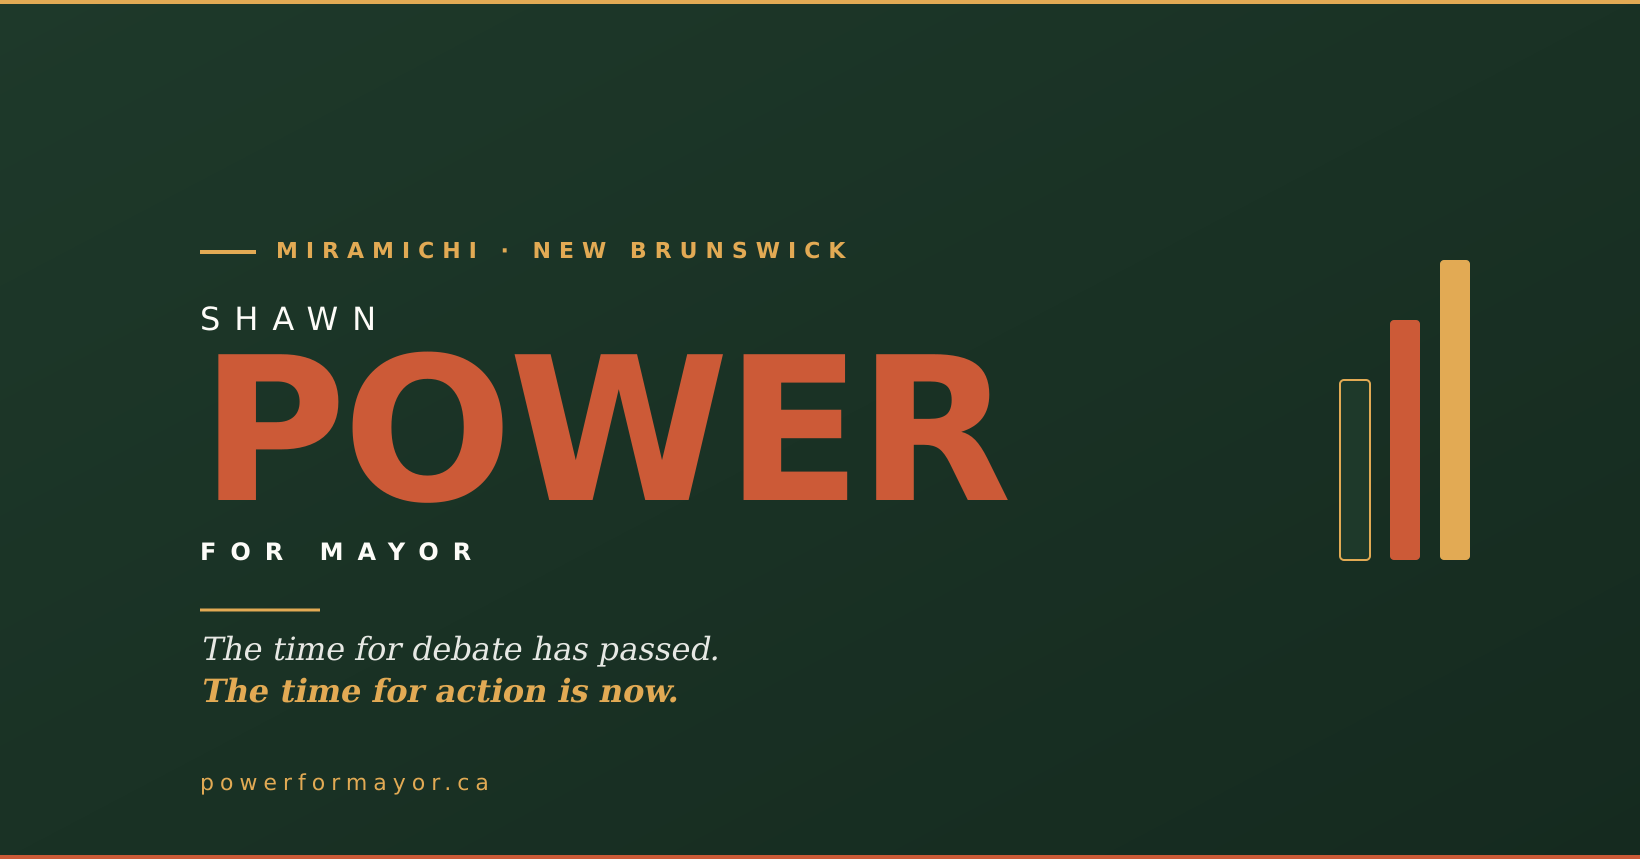
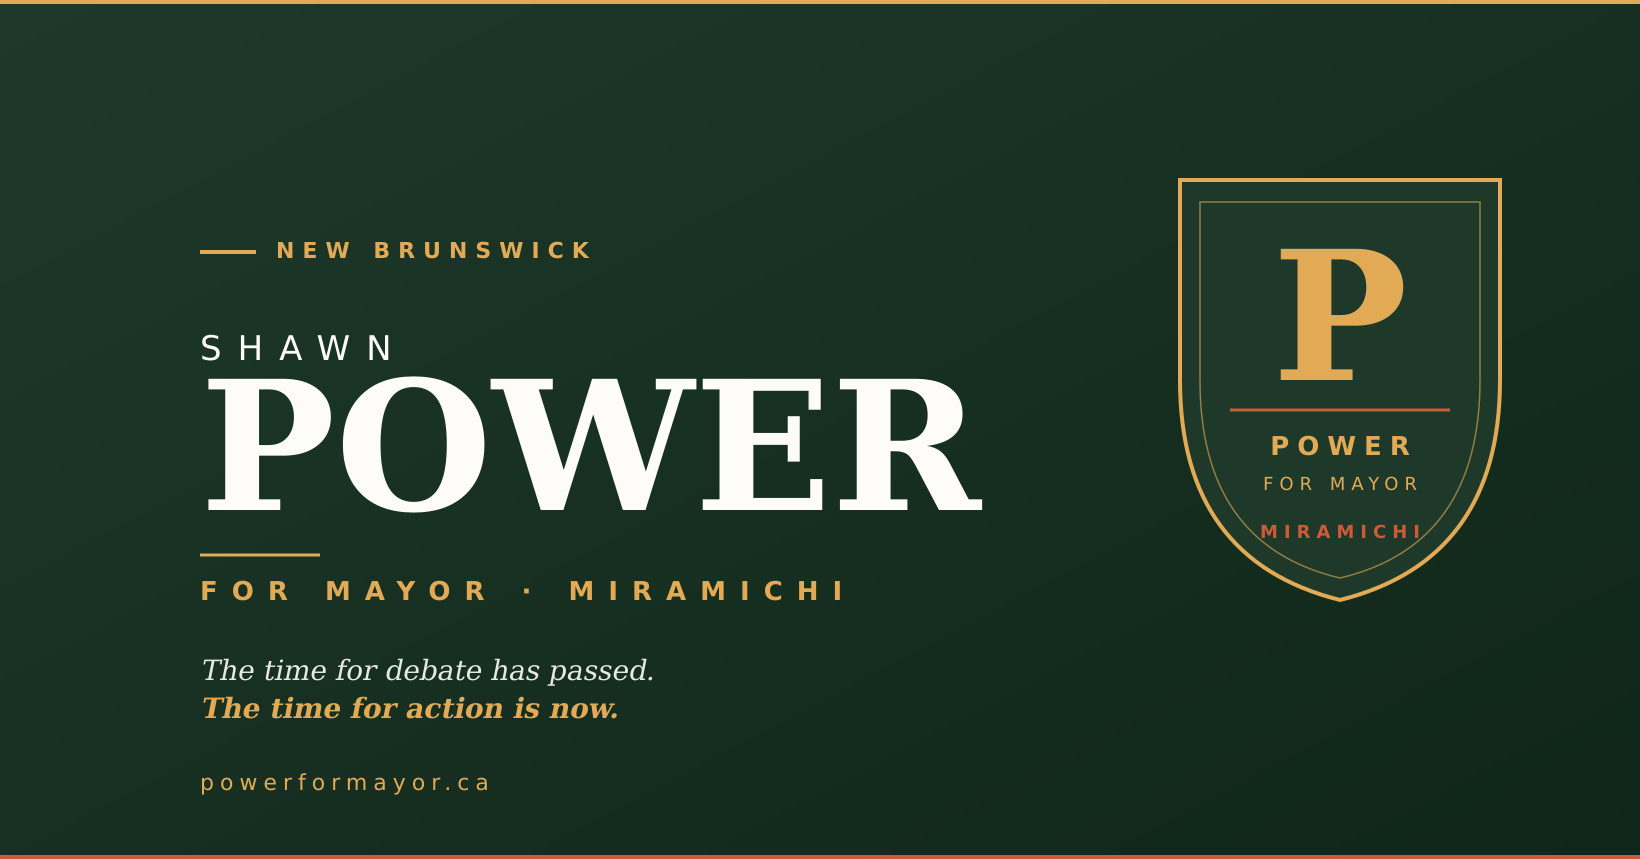
Platform: fix invisible title on dark cards (global h1..h6 rule overrode text-white); FB launch assets regenerated with Option 5 shield/crest per Shawn's pick

diff --git a/frontend/src/components/Platform.js b/frontend/src/components/Platform.js
@@ -64,7 +64,7 @@ export default function Platform() {
             <div className="p-3 rounded-xl bg-white/10 w-fit mb-5">
               <Receipt size={22} />
             </div>
-            <h3 className="font-serif text-2xl font-semibold mb-2">
+            <h3 className="font-serif text-2xl font-semibold mb-2 text-white">
               {items[1].title}
             </h3>
             <p className="font-sans text-sm text-[#E2AA54] font-medium mb-4">
@@ -128,7 +128,7 @@ export default function Platform() {
               <div className="p-3 rounded-xl bg-white/15 w-fit mb-4">
                 <BusFront size={22} />
               </div>
-              <h3 className="font-serif text-xl font-semibold mb-2">
+              <h3 className="font-serif text-xl font-semibold mb-2 text-white">
                 {items[4].title}
               </h3>
               <p className="font-sans text-sm text-[#E2AA54] font-medium mb-3">
